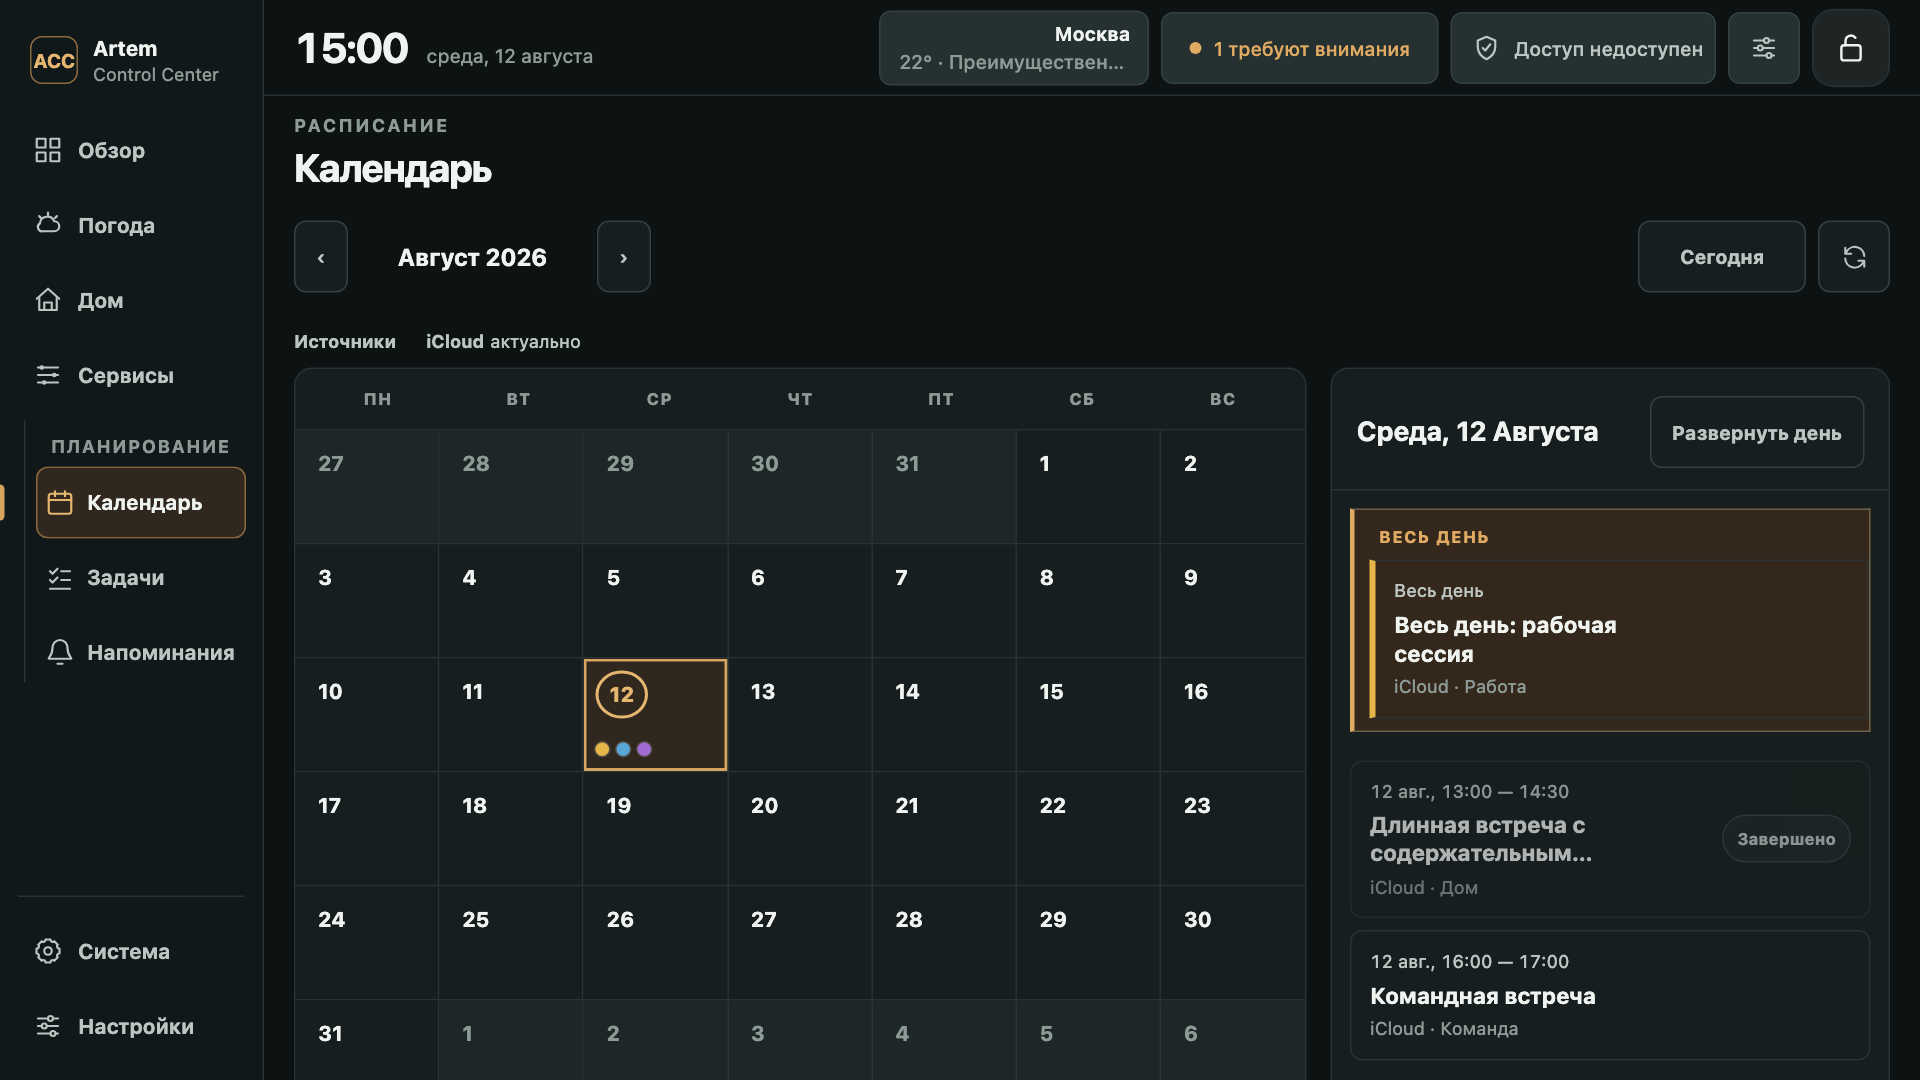
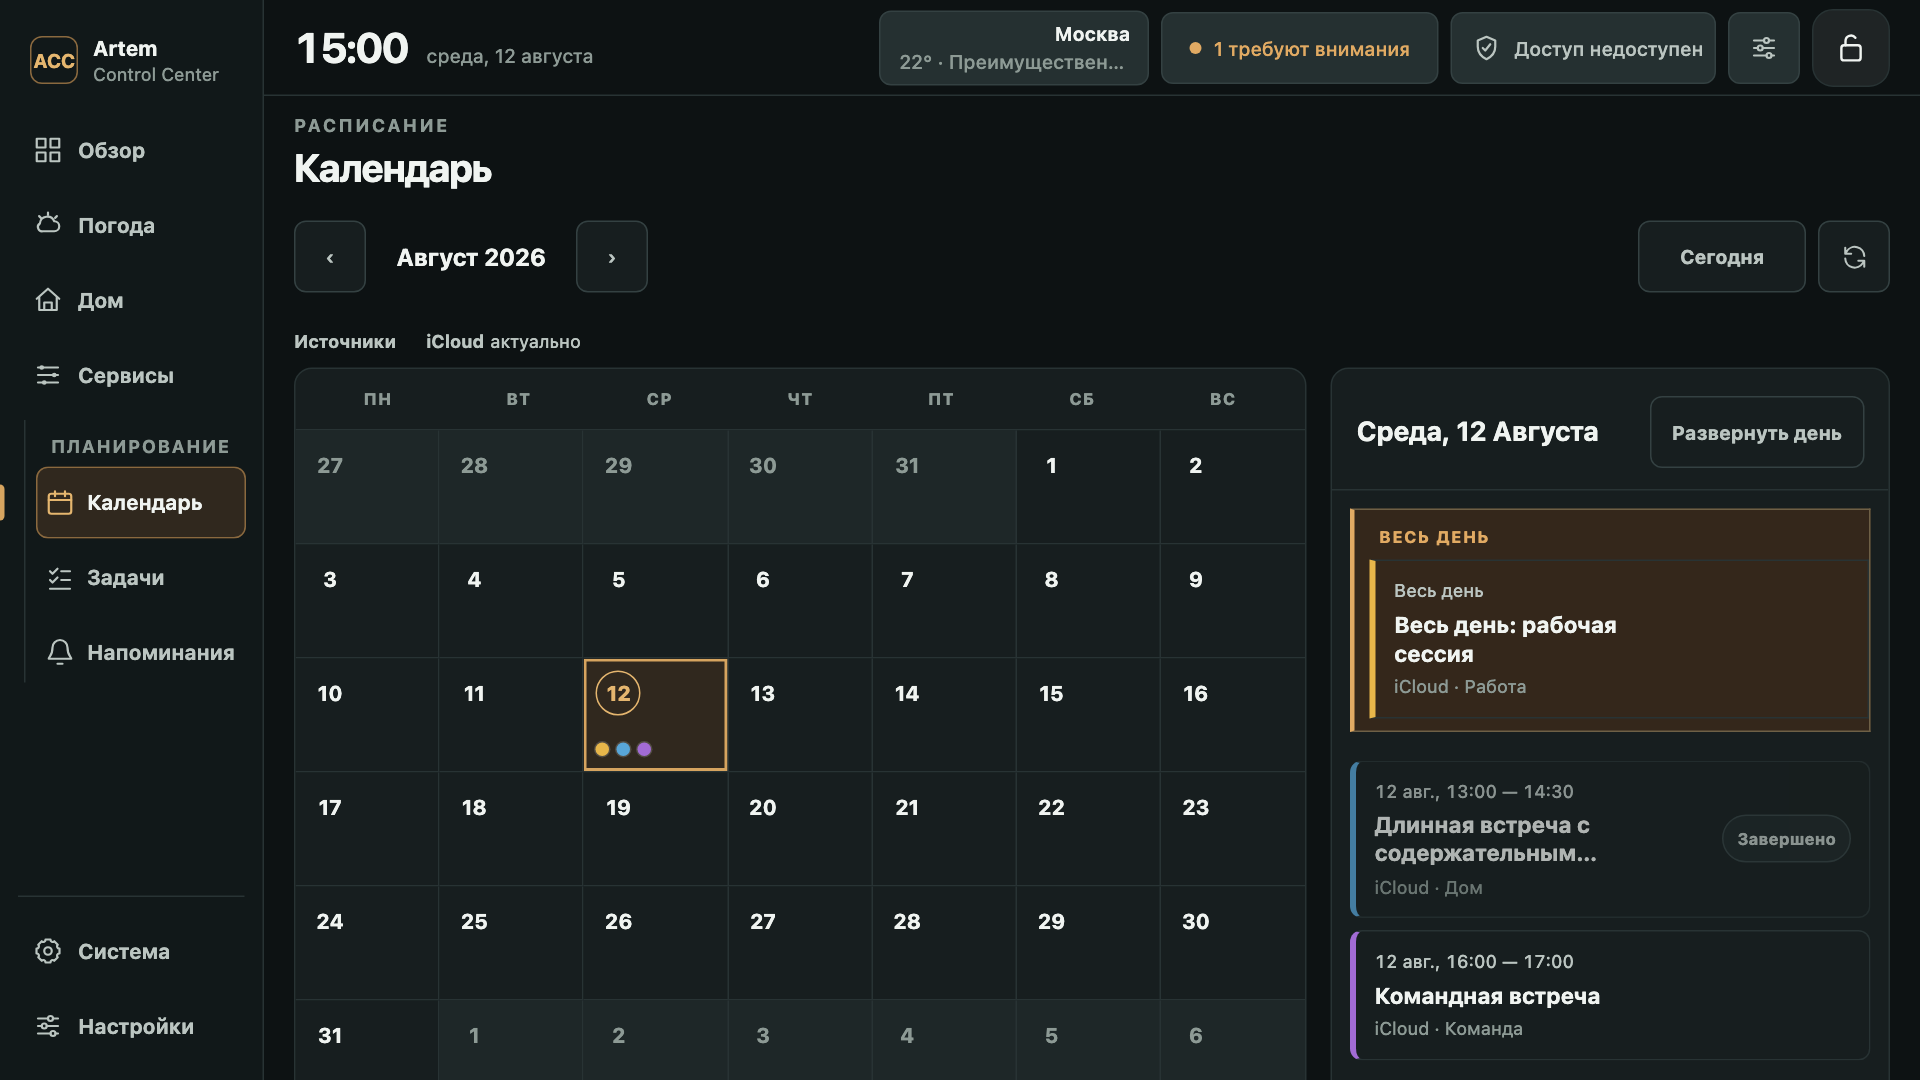
fix: polish calendar and ROG physical layout

diff --git a/tests/e2e/issue-112-calendar-month-grid.spec.ts b/tests/e2e/issue-112-calendar-month-grid.spec.ts
@@ -102,6 +102,37 @@ test.describe("Issue #112 Calendar Slice A", () => {
     await expect(page.getByTestId("planning-calendar-header-controls")).toHaveCSS("display", "grid");
     await expect(page.getByTestId("planning-calendar-month-controls").getByRole("button", { name: "Сегодня" })).toHaveCount(0);
     await expect(page.getByTestId("planning-calendar-today-control").getByRole("button", { name: "Сегодня" })).toBeVisible();
+    const monthPager = await page.getByTestId("planning-calendar-month-controls").evaluate((element) => {
+      const previous = element.querySelector<HTMLButtonElement>('[aria-label="Предыдущий месяц"]');
+      const next = element.querySelector<HTMLButtonElement>('[aria-label="Следующий месяц"]');
+      const label = element.querySelector<HTMLElement>("[data-testid='planning-calendar-month-heading']");
+      if (!previous || !next || !label) throw new Error("Month pager geometry is incomplete");
+      const rect = (item: Element) => {
+        const box = item.getBoundingClientRect();
+        return { left: box.left, right: box.right, width: box.width, height: box.height };
+      };
+      return { previous: rect(previous), label: rect(label), next: rect(next), gap: getComputedStyle(element).gap };
+    });
+    expect(monthPager.previous.width).toBeCloseTo(48, 3);
+    expect(monthPager.previous.height).toBeCloseTo(48, 3);
+    expect(monthPager.next.width).toBeCloseTo(monthPager.previous.width, 3);
+    expect(monthPager.next.height).toBeCloseTo(monthPager.previous.height, 3);
+    expect(monthPager.gap).toBe("4px");
+    expect(Math.abs((monthPager.label.left - monthPager.previous.right) - (monthPager.next.left - monthPager.label.right))).toBeLessThanOrEqual(0.5);
+    expect(monthPager.label.width).toBeCloseTo(132, 3);
+    const longestMonthLabelWidth = await page.getByTestId("planning-calendar-month-heading").evaluate((element) => {
+      const canvas = document.createElement("canvas");
+      const context = canvas.getContext("2d");
+      if (!context) throw new Error("Canvas text measurement is unavailable");
+      context.font = getComputedStyle(element).font;
+      return Math.max(...Array.from({ length: 12 }, (_, index) => {
+        const month = new Intl.DateTimeFormat("ru-RU", { month: "long", timeZone: "UTC" }).format(new Date(Date.UTC(2026, index, 1)));
+        const label = `${month.slice(0, 1).toLocaleUpperCase("ru-RU")}${month.slice(1)} 2026`;
+        return context.measureText(label).width;
+      }));
+    });
+    expect(longestMonthLabelWidth).toBeLessThanOrEqual(monthPager.label.width);
+    const augustLabelWidth = monthPager.label.width;
     const monthControlsBox = await page.getByTestId("planning-calendar-month-controls").boundingBox();
     const todayControlBox = await page.getByTestId("planning-calendar-today-control").boundingBox();
     const monthColumnBox = await page.locator(".calendar-month").boundingBox();
@@ -154,6 +185,7 @@ test.describe("Issue #112 Calendar Slice A", () => {
     await colorDay.click();
     await page.getByRole("button", { name: "Следующий месяц" }).click();
     await expect(page.getByTestId("planning-calendar-month-heading")).toHaveText("Сентябрь 2026");
+    await expect.poll(async () => (await page.getByTestId("planning-calendar-month-heading").boundingBox())?.width ?? 0).toBeCloseTo(augustLabelWidth, 3);
     await page.getByRole("button", { name: "Сегодня" }).click();
     await expect(page.getByTestId("planning-calendar-month-heading")).toHaveText("Август 2026");
     await expect(page.locator('[data-testid="planning-calendar-month-cell"][data-date="2026-08-12"]')).toHaveAttribute("aria-selected", "true");
@@ -168,5 +200,48 @@ test.describe("Issue #112 Calendar Slice A", () => {
     const overflow = await page.evaluate(() => ({ scrollWidth: document.documentElement.scrollWidth, width: document.documentElement.clientWidth }));
     expect(overflow.scrollWidth).toBeLessThanOrEqual(overflow.width + 1);
     expect(methods.every((method) => method === "GET")).toBe(true);
+  });
+
+  test("centers one- and two-digit current dates inside the same thin ring", async ({ page }) => {
+    await installCalendarFixture(page);
+    await page.goto("/calendar");
+
+    const inspectCurrentDate = async (date: string) => page.locator(`[data-testid="planning-calendar-month-cell"][data-date="${date}"]`).evaluate((cell) => {
+      const dateBox = cell.querySelector<HTMLElement>(".calendar-month-cell__date");
+      if (!dateBox) throw new Error("Missing current-date box");
+      const box = dateBox.getBoundingClientRect();
+      const range = document.createRange();
+      range.selectNodeContents(dateBox);
+      const numeral = range.getClientRects()[0];
+      if (!numeral) throw new Error("Missing current-date numeral bounds");
+      const style = getComputedStyle(dateBox);
+      return {
+        box: { left: box.x, top: box.y, right: box.x + box.width, bottom: box.y + box.height, width: box.width, height: box.height },
+        numeral: { left: numeral.x, top: numeral.y, right: numeral.x + numeral.width, bottom: numeral.y + numeral.height, width: numeral.width, height: numeral.height },
+        borderWidth: style.borderTopWidth,
+        selected: cell.getAttribute("aria-selected"),
+        current: cell.getAttribute("aria-current"),
+        selectionShadow: getComputedStyle(cell).boxShadow
+      };
+    });
+
+    const twoDigit = await inspectCurrentDate("2026-08-12");
+    expect(twoDigit.box.width).toBeCloseTo(30, 3);
+    expect(twoDigit.box.height).toBeCloseTo(30, 3);
+    expect(twoDigit.borderWidth).toBe("1px");
+    expect(Math.abs((twoDigit.numeral.left - twoDigit.box.left) - (twoDigit.box.right - twoDigit.numeral.right))).toBeLessThanOrEqual(1);
+    expect(Math.abs((twoDigit.numeral.top - twoDigit.box.top) - (twoDigit.box.bottom - twoDigit.numeral.bottom))).toBeLessThanOrEqual(1);
+    expect(twoDigit.selected).toBe("true");
+    expect(twoDigit.current).toBe("date");
+    expect(twoDigit.selectionShadow).toContain("inset");
+
+    await page.clock.setFixedTime("2026-08-01T12:00:00Z");
+    await page.reload();
+    await expect(page.locator('[data-testid="planning-calendar-month-cell"][data-date="2026-08-01"]')).toHaveAttribute("data-current", "true");
+    const oneDigit = await inspectCurrentDate("2026-08-01");
+    expect(oneDigit.box).toMatchObject({ width: twoDigit.box.width, height: twoDigit.box.height });
+    expect(oneDigit.borderWidth).toBe("1px");
+    expect(Math.abs((oneDigit.numeral.left - oneDigit.box.left) - (oneDigit.box.right - oneDigit.numeral.right))).toBeLessThanOrEqual(1);
+    expect(Math.abs((oneDigit.numeral.top - oneDigit.box.top) - (oneDigit.box.bottom - oneDigit.numeral.bottom))).toBeLessThanOrEqual(1);
   });
 });

diff --git a/tests/e2e/issue-112-slice-b1.spec.ts b/tests/e2e/issue-112-slice-b1.spec.ts
@@ -246,19 +246,37 @@ test.describe("Issue #112 Slice B1 physical polish", () => {
 
     const selectedHeading = await page.getByTestId("planning-calendar-selected-day-heading").innerText();
     const indicatorColors = await page.locator('[data-date="2026-08-12"]').getByTestId("planning-calendar-event-indicator").evaluateAll((items) => items.map((item) => item.getAttribute("data-color")));
-    const cardEvidence = await page.getByTestId("planning-calendar-event-row").evaluateAll((items) => items.map((item) => ({
-      color: getComputedStyle(item).borderLeftColor,
-      accent: getComputedStyle(item).getPropertyValue("--calendar-event-accent").trim(),
-      text: item.textContent ?? ""
-    })));
-    expect(new Set(cardEvidence.map((item) => item.accent))).toEqual(new Set(indicatorColors));
-    expect(cardEvidence.every((item) => item.color !== "rgba(0, 0, 0, 0)" && item.color !== "transparent")).toBe(true);
+    const cardEvidence = await page.getByTestId("planning-calendar-event-row").evaluateAll((items) => items.map((item) => {
+      const style = getComputedStyle(item);
+      const normalizeColor = (value: string) => {
+        const canvas = document.createElement("canvas");
+        const context = canvas.getContext("2d");
+        if (!context) throw new Error("Canvas color normalization is unavailable");
+        context.fillStyle = value;
+        return context.fillStyle.toLowerCase();
+      };
+      const rawAccent = style.getPropertyValue("--calendar-event-accent").trim();
+      return {
+        border: normalizeColor(style.borderLeftColor),
+        accent: normalizeColor(rawAccent),
+        rawAccent,
+        width: style.borderLeftWidth,
+        text: item.textContent ?? ""
+      };
+    }));
+    const timedEvidence = cardEvidence.filter((item) => item.text.includes("Длинная встреча") || item.text.includes("Командная встреча"));
+    expect(new Set(cardEvidence.map((item) => item.accent))).toEqual(new Set(indicatorColors.map((color) => color?.toLowerCase())));
+    expect(cardEvidence.every((item) => item.rawAccent && item.border === item.accent && item.width === "4px")).toBe(true);
+    expect(new Set(timedEvidence.map((item) => item.accent)).size).toBe(2);
+    expect(timedEvidence.every((item) => item.border === item.accent && item.width === "4px")).toBe(true);
     expect(cardEvidence.map((item) => item.text).join(" ")).not.toContain("Europe/Moscow");
     expect(cardEvidence.map((item) => item.text).join(" ")).not.toContain("Синхронизация: Синхронизировано");
     expect(cardEvidence.map((item) => item.text).join(" ")).toContain("Дом");
 
     const allDayBand = page.getByTestId("planning-calendar-all-day-band");
     const allDayRow = allDayBand.getByTestId("planning-calendar-event-row");
+    const allDayEvidence = cardEvidence.find((item) => item.text.includes("Весь день"));
+    expect(allDayEvidence).toMatchObject({ border: allDayEvidence?.accent, width: "4px" });
     const bandBox = await allDayBand.boundingBox();
     const rowBox = await allDayRow.boundingBox();
     expect((rowBox?.x ?? 0)).toBeGreaterThan((bandBox?.x ?? 0));

diff --git a/apps/dashboard/src/planningRoutes.css b/apps/dashboard/src/planningRoutes.css
@@ -39,12 +39,13 @@
   width: max-content;
   max-width: 100%;
   min-width: 0;
-  gap: var(--space-2);
+  gap: 4px;
   flex-wrap: nowrap;
 }
 .planning-calendar-month-controls__label {
-  min-width: 150px;
-  flex: 0 1 auto;
+  width: 132px;
+  min-width: 132px;
+  flex: 0 0 132px;
   color: var(--text);
   font-size: 16px;
   text-align: center;
@@ -125,6 +126,15 @@
 .planning-primary-button:disabled,
 .planning-secondary-button:disabled { cursor: not-allowed; opacity: .52; }
 .planning-secondary-button { max-width: 260px; overflow-wrap: anywhere; }
+.planning-calendar-month-nav-button {
+  display: grid;
+  place-items: center;
+  width: 48px;
+  min-width: 48px;
+  height: 48px;
+  min-height: 48px;
+  padding: 0;
+}
 .planning-secondary-button:hover,
 .planning-segmented button:hover,
 .planning-pagination button:hover:not(:disabled) { background: var(--surface-hover); }
@@ -357,6 +367,7 @@
 .calendar-band .calendar-event-row { width: calc(100% - 10px); margin-inline-start: 10px; }
 .calendar-timed-list { display: grid; gap: 7px; }
 .calendar-timed-list .planning-route-row { border: 1px solid var(--border-soft); border-radius: var(--radius-control); }
+.calendar-timed-list .calendar-event-row { border-left: 4px solid var(--calendar-event-accent, var(--accent)); }
 .calendar-event-row--past { opacity: .7; }
 .calendar-event-row { border: 1px solid var(--border-soft); border-left: 4px solid var(--calendar-event-accent, var(--accent)); }
 .calendar-event-row--running { background: var(--success-soft); }
@@ -421,18 +432,25 @@
 .calendar-month-cell:focus-visible { position: relative; z-index: 1; outline: 3px solid var(--accent); outline-offset: -3px; }
 .calendar-month-cell[aria-selected="true"] { background: var(--accent-soft); box-shadow: inset 0 0 0 2px var(--accent); }
 .calendar-month-cell[data-current="true"] .calendar-month-cell__date {
-  display: inline-flex;
-  align-items: center;
-  justify-content: center;
-  min-width: 29px;
-  min-height: 29px;
-  border: 2px solid var(--accent-strong);
+  border: 1px solid var(--accent-strong);
   border-radius: 50%;
   color: var(--accent-strong);
   font-weight: 800;
 }
 .calendar-month-cell--outside { color: var(--text-muted); background: var(--surface-secondary); }
-.calendar-month-cell__date { min-height: 29px; padding: 4px 7px; font-size: 14px; font-weight: 720; }
+.calendar-month-cell__date {
+  display: grid;
+  place-items: center;
+  box-sizing: border-box;
+  width: 30px;
+  min-width: 30px;
+  height: 30px;
+  min-height: 30px;
+  padding: 0;
+  font-size: 14px;
+  font-weight: 720;
+  line-height: 1;
+}
 .calendar-month-cell__indicators { display: flex; align-items: center; gap: 5px; min-height: 13px; max-width: 100%; }
 .calendar-month-cell__indicator { width: 9px; height: 9px; flex: 0 0 auto; border-radius: 50%; box-shadow: 0 0 0 1px color-mix(in srgb, var(--text) 18%, transparent); }
 .calendar-month-cell__overflow { color: var(--text-muted); font-size: 11px; font-weight: 760; }

diff --git a/apps/dashboard/src/features/system/systemV2.css b/apps/dashboard/src/features/system/systemV2.css
@@ -72,12 +72,13 @@
 
 .system-rog-detail { display: grid; grid-template-rows: auto minmax(0, 1fr) auto; height: 100%; min-height: 0; padding: 16px; }
 .system-rog-detail__header { display: flex; align-items: flex-start; justify-content: space-between; gap: var(--cc-space-3); }
-.system-rog-detail__identity { display: flex; align-items: flex-start; gap: 10px; min-width: 0; }
+.system-rog-detail__identity { display: flex; align-items: center; gap: 10px; min-width: 0; }
 .system-rog-detail__icon { display: grid; place-items: center; flex: 0 0 24px; color: var(--cc-accent-strong); }
-.system-rog-detail__identity h2 { margin: 1px 0 0; color: var(--cc-text); font-size: var(--cc-type-widget-title-size); line-height: var(--cc-type-widget-title-line); overflow-wrap: anywhere; }
 .system-rog-detail__header .v2-status-text { flex: 0 0 auto; font-size: var(--cc-type-body-size); }
-.system-rog-detail__state { display: grid; align-content: center; gap: 4px; min-width: 0; }
+.system-rog-detail__state { display: grid; align-content: center; justify-items: start; gap: 4px; min-width: 0; }
+.system-rog-detail__state h2 { margin: 0; color: var(--cc-text); font-size: var(--cc-type-widget-title-size); line-height: var(--cc-type-widget-title-line); overflow-wrap: anywhere; }
 .system-rog-detail__state strong { color: var(--cc-text); font-size: var(--cc-type-primary-state-size); font-weight: var(--cc-type-primary-state-weight); line-height: var(--cc-type-primary-state-line); }
+.system-rog-detail__state h2 + strong { margin-top: 8px; }
 .system-rog-detail__state span { max-width: 48ch; color: var(--cc-text-secondary); font-size: var(--cc-type-body-size); line-height: var(--cc-type-body-line); }
 .system-rog-detail__footer { display: flex; align-items: center; justify-content: space-between; gap: var(--cc-space-3); min-height: 56px; padding-top: 12px; border-top: 1px solid var(--cc-divider); }
 .system-rog-detail__footer > span:first-child { color: var(--cc-text-muted); font-size: var(--cc-type-metadata-size); line-height: var(--cc-type-metadata-line); }

diff --git a/apps/dashboard/src/PlanningRoutes.tsx b/apps/dashboard/src/PlanningRoutes.tsx
@@ -946,9 +946,9 @@ function CalendarMonthControls({
   return (
     <div className="planning-calendar-header-controls" data-testid="planning-calendar-header-controls">
       <div className="planning-calendar-month-controls" data-testid="planning-calendar-month-controls" role="group" aria-label="Навигация по месяцам">
-        <button type="button" className="planning-secondary-button" aria-label="Предыдущий месяц" onClick={onPrevious}>‹</button>
+        <button type="button" className="planning-secondary-button planning-calendar-month-nav-button" aria-label="Предыдущий месяц" onClick={onPrevious}>‹</button>
         <strong className="planning-calendar-month-controls__label" data-testid="planning-calendar-month-heading">{label}</strong>
-        <button type="button" className="planning-secondary-button" aria-label="Следующий месяц" onClick={onNext}>›</button>
+        <button type="button" className="planning-secondary-button planning-calendar-month-nav-button" aria-label="Следующий месяц" onClick={onNext}>›</button>
       </div>
       <div className="planning-calendar-today-control" data-testid="planning-calendar-today-control" role="group" aria-label="Переход к сегодняшнему дню">
         <button type="button" className="planning-secondary-button" onClick={onToday}>Сегодня</button>

diff --git a/tests/e2e/v2-route-density.spec.ts b/tests/e2e/v2-route-density.spec.ts
@@ -332,6 +332,24 @@ test.describe("Control Center V2 PR7 route density", () => {
     await page.goto("/system");
     await expect(page.getByTestId("system-rog-g703")).toContainText("Не в сети");
     await expect(page.getByTestId("system-rog-action")).toHaveText("Включить");
+    const rogGeometry = await page.getByTestId("system-rog-g703").evaluate((root) => {
+      const title = root.querySelector<HTMLElement>("#system-rog-g703-title");
+      const status = root.querySelector<HTMLElement>(".system-rog-detail__state strong");
+      const state = title?.closest(".system-rog-detail__state");
+      if (!title || !status) throw new Error("ROG title/state geometry is incomplete");
+      const titleBox = title.getBoundingClientRect();
+      const statusBox = status.getBoundingClientRect();
+      return {
+        titleLeft: titleBox.left,
+        statusLeft: statusBox.left,
+        titleBottom: titleBox.bottom,
+        statusTop: statusBox.top,
+        titleInPrimaryState: Boolean(state)
+      };
+    });
+    expect(rogGeometry.titleInPrimaryState).toBe(true);
+    expect(Math.abs(rogGeometry.titleLeft - rogGeometry.statusLeft)).toBeLessThanOrEqual(1);
+    expect(rogGeometry.statusTop - rogGeometry.titleBottom).toBeGreaterThanOrEqual(8);
 
     await page.unroute("**/api/v1/snapshot**");
     await installSnapshotMock(page, (snapshot) => addRog(snapshot, "waking"));

diff --git a/apps/dashboard/src/RogG703Controls.tsx b/apps/dashboard/src/RogG703Controls.tsx
@@ -144,15 +144,13 @@ export function RogG703DetailControl({ service }: { service: ServiceSnapshot }) 
       <header className="system-rog-detail__header">
         <div className="system-rog-detail__identity">
           <span className="system-rog-detail__icon" aria-hidden="true"><Icon name="system" /></span>
-          <div>
-            <p className="section-kicker">Хост · ASUS</p>
-            <h2 id="system-rog-g703-title">{service.title}</h2>
-          </div>
+          <p className="section-kicker">Хост · ASUS</p>
         </div>
         <StatusText label={controller.display.label} tone={rogG703Tone(status)} />
       </header>
 
       <div className="system-rog-detail__state" role="status" aria-live="polite">
+        <h2 id="system-rog-g703-title">{service.title}</h2>
         <strong>{controller.display.label}</strong>
         <span>{controller.display.detail}</span>
       </div>
